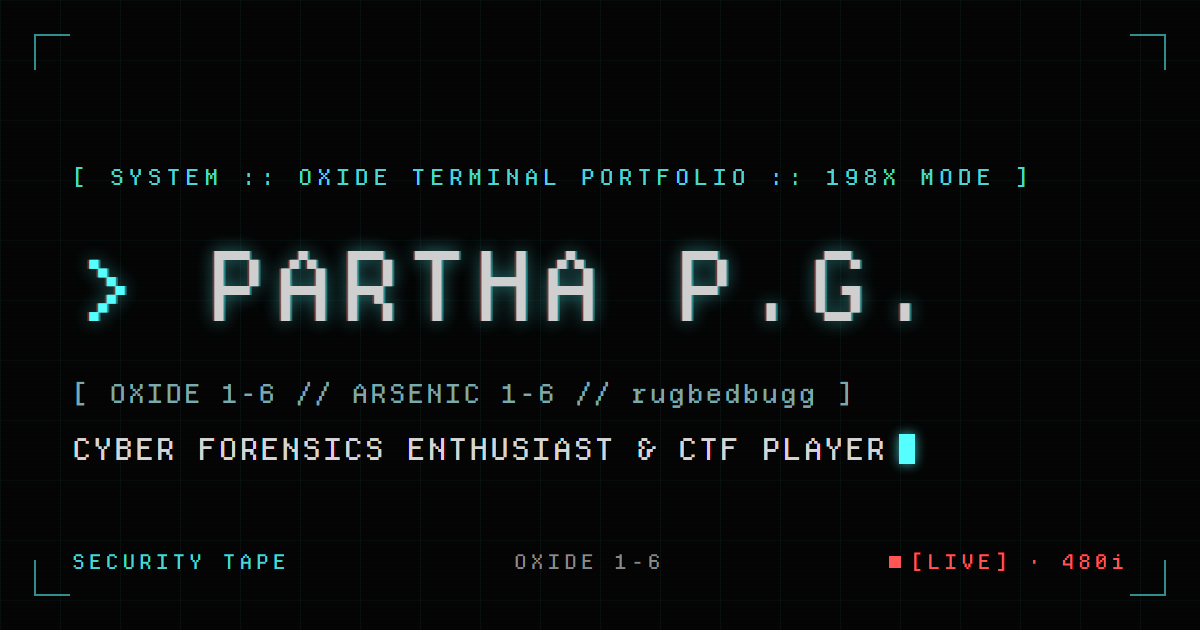
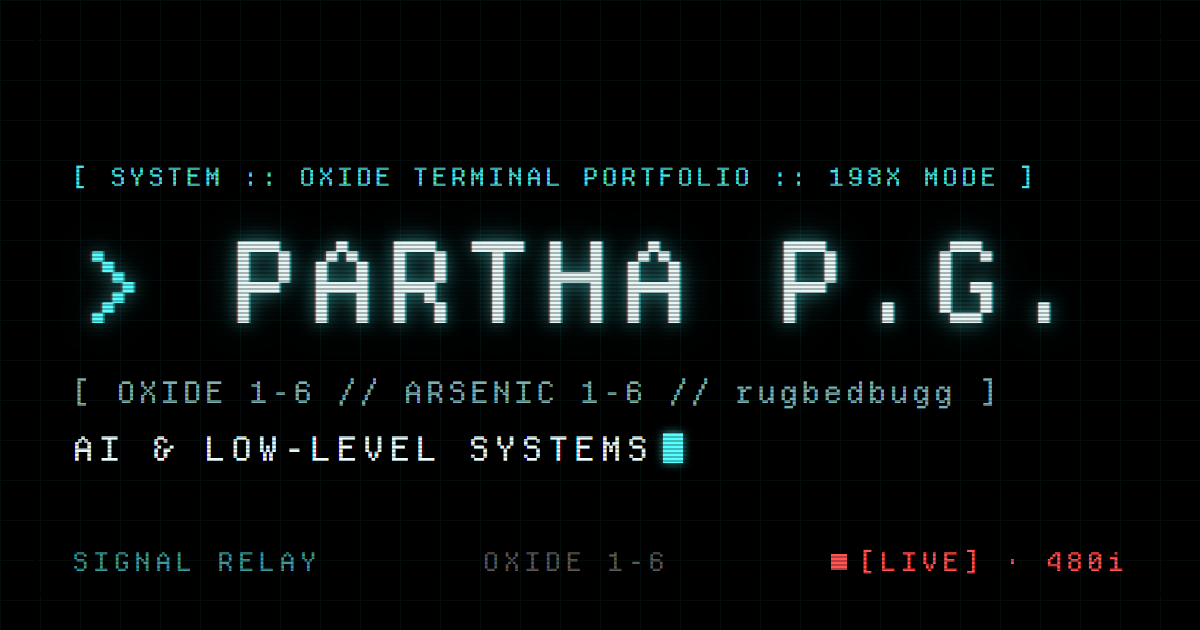
[Content]: Refresh identity copy, projects, and share metadata

diff --git a/src/pages/Index.tsx b/src/pages/Index.tsx
@@ -10,7 +10,7 @@ import { recordVisit, relTime } from "@/lib/trace";
 const PROFILE = {
   name: "Partha P.G.",
   aliases: "Oxide 1-6 // Arsenic 1-6 // rugbedbugg",
-  tagline: "Cyber Forensics Enthusiast & CTF Player",
+  tagline: "AI & Low-Level Systems",
   email: "mailto:yes.par781@gmail.com",
   // Set to a real path once available, e.g. "/resume.pdf". Empty hides the button.
   resumeUrl: "",
@@ -40,18 +40,25 @@ const SOCIALS = [
 
 const PROJECTS = [
   {
+    title: "ReAgent",
+    description:
+      "An agentic retrosynthesis framework that plans reaction routes with evidence-grounded, multi-objective scoring and forward-validating filter-model checks.",
+    href: "https://github.com/rugbedbugg/ReAgent",
+    tags: ["Python", "Agentic", "LLM", "Scoring"],
+  },
+  {
+    title: "Trionda-Trifecta-26",
+    description:
+      "A FIFA World Cup predictor with leakage-safe features, W/D/L and scoreline models, and a full-bracket 2026 simulation that calls Spain to lift the trophy.",
+    href: "https://github.com/rugbedbugg/Trionda-Trifecta-26",
+    tags: ["Python", "ML", "Modeling", "Simulation"],
+  },
+  {
     title: "ResonanceID-cli",
     description:
       "A Shazam-inspired Rust CLI that fingerprints WAV audio, ranks candidate matches, and backs everything with SQLite for fast, explainable lookup.",
     href: "https://github.com/rugbedbugg/ResonanceID-cli",
-    tags: ["Rust", "DSA", "SQLite", "cli"],
-  },
-  {
-    title: "Dev-Tools-Assistant",
-    description:
-      "An agentic developer companion that crawls the web and suggests practical tools based on your stack, project type, and goals.",
-    href: "https://github.com/rugbedbugg/Dev-Tools-Assistant",
-    tags: ["Python", "Automation", "Agentic", "Tooling"],
+    tags: ["Rust", "DSP", "SQLite", "cli"],
   },
   {
     title: "HTTP-SVR-200-OK",
@@ -139,19 +146,19 @@ const Index = () => {
           >
             <div className="mono-command max-w-2xl space-y-4 text-[1rem] leading-8 text-foreground">
               <p>
-                I enjoy solving CTF challenges and studying cyber forensics with
-                a hands-on approach. I like to break systems down, understand
-                why they work, and rebuild them in a cleaner way.
+                I build things to understand them. My instinct with any system
+                is to take it apart, see why it holds together, and put it back
+                cleaner. That is most of how I learn and how I think.
               </p>
               <p>
-                My work usually sits between low-level systems, practical
-                security workflows, and small developer tools that are simple,
-                fast, and useful.
+                I'm pulled toward the parts of software people treat as a black
+                box, and toward AI, especially agents and systems that act on
+                their own. I would rather know what is happening underneath than
+                trust the surface.
               </p>
-              <p className="text-[0.92rem] leading-7 text-muted-foreground pt-1">
-                Right now, I'm focused on practical security engineering,
-                reverse-oriented thinking, and building tools that reduce
-                friction for real workflows.
+              <p>
+                What I make is usually one of two things: a rebuild done to learn
+                how something works, or a tool built because it needed to exist.
               </p>
             </div>
           </DossierPanel>

diff --git a/index.html b/index.html
@@ -7,12 +7,12 @@
     <meta name="theme-color" content="#0a0710" />
 
     <title>Partha P.G. | Portfolio</title>
-    <meta name="description" content="Cyber Forensics Enthusiast & CTF Player" />
+    <meta name="description" content="AI & Low-Level Systems. I build with AI and agents, and dig into the parts of software most people treat as a black box." />
     <meta name="author" content="Partha P.G." />
     <link rel="canonical" href="https://portfolio-website-eyl.pages.dev/" />
 
     <meta property="og:title" content="Partha P.G. | Portfolio" />
-    <meta property="og:description" content="Cyber Forensics Enthusiast & CTF Player" />
+    <meta property="og:description" content="AI & Low-Level Systems. I build with AI and agents, and dig into the parts of software most people treat as a black box." />
     <meta property="og:type" content="website" />
     <meta property="og:url" content="https://portfolio-website-eyl.pages.dev/" />
     <meta property="og:image" content="https://portfolio-website-eyl.pages.dev/og-image.png" />
@@ -21,7 +21,7 @@
 
     <meta name="twitter:card" content="summary_large_image" />
     <meta name="twitter:title" content="Partha P.G. | Portfolio" />
-    <meta name="twitter:description" content="Cyber Forensics Enthusiast & CTF Player" />
+    <meta name="twitter:description" content="AI & Low-Level Systems. I build with AI and agents, and dig into the parts of software most people treat as a black box." />
     <meta name="twitter:image" content="https://portfolio-website-eyl.pages.dev/og-image.png" />
 
     <link
@@ -38,17 +38,18 @@
         "@type": "Person",
         "name": "Partha P.G.",
         "alternateName": ["Oxide 1-6", "Arsenic 1-6", "rugbedbugg"],
-        "jobTitle": "Cyber Forensics Enthusiast & CTF Player",
+        "jobTitle": "AI & Low-Level Systems",
         "url": "https://portfolio-website-eyl.pages.dev/",
         "sameAs": [
           "https://github.com/rugbedbugg",
           "https://www.linkedin.com/in/partha-gogoi-736241308/"
         ],
         "knowsAbout": [
-          "Cyber Forensics",
-          "Capture the Flag",
-          "Reverse Engineering",
-          "Low-level Systems"
+          "Artificial Intelligence",
+          "AI Agents",
+          "Low-level Systems",
+          "Systems Programming",
+          "Reverse Engineering"
         ]
       }
     </script>

diff --git a/src/components/AsciiArt.tsx b/src/components/AsciiArt.tsx
@@ -557,8 +557,8 @@ const AsciiArt = () => {
                     <div className="text-cga-yellow">SUBJECT FILE :: CH 04</div>
                     <div className="text-cga-bcyan/40">--------------------</div>
                     <div>ID     : OXIDE 1-6</div>
-                    <div>CLASS  : CTF · FORENSICS</div>
-                    <div>FOCUS  : LOW-LEVEL / RE</div>
+                    <div>CLASS  : AI · LOW-LEVEL</div>
+                    <div>FOCUS  : AGENTS / RE</div>
                     <div>
                       STATUS : <span className="text-cga-bgreen">TRACED</span>
                     </div>
